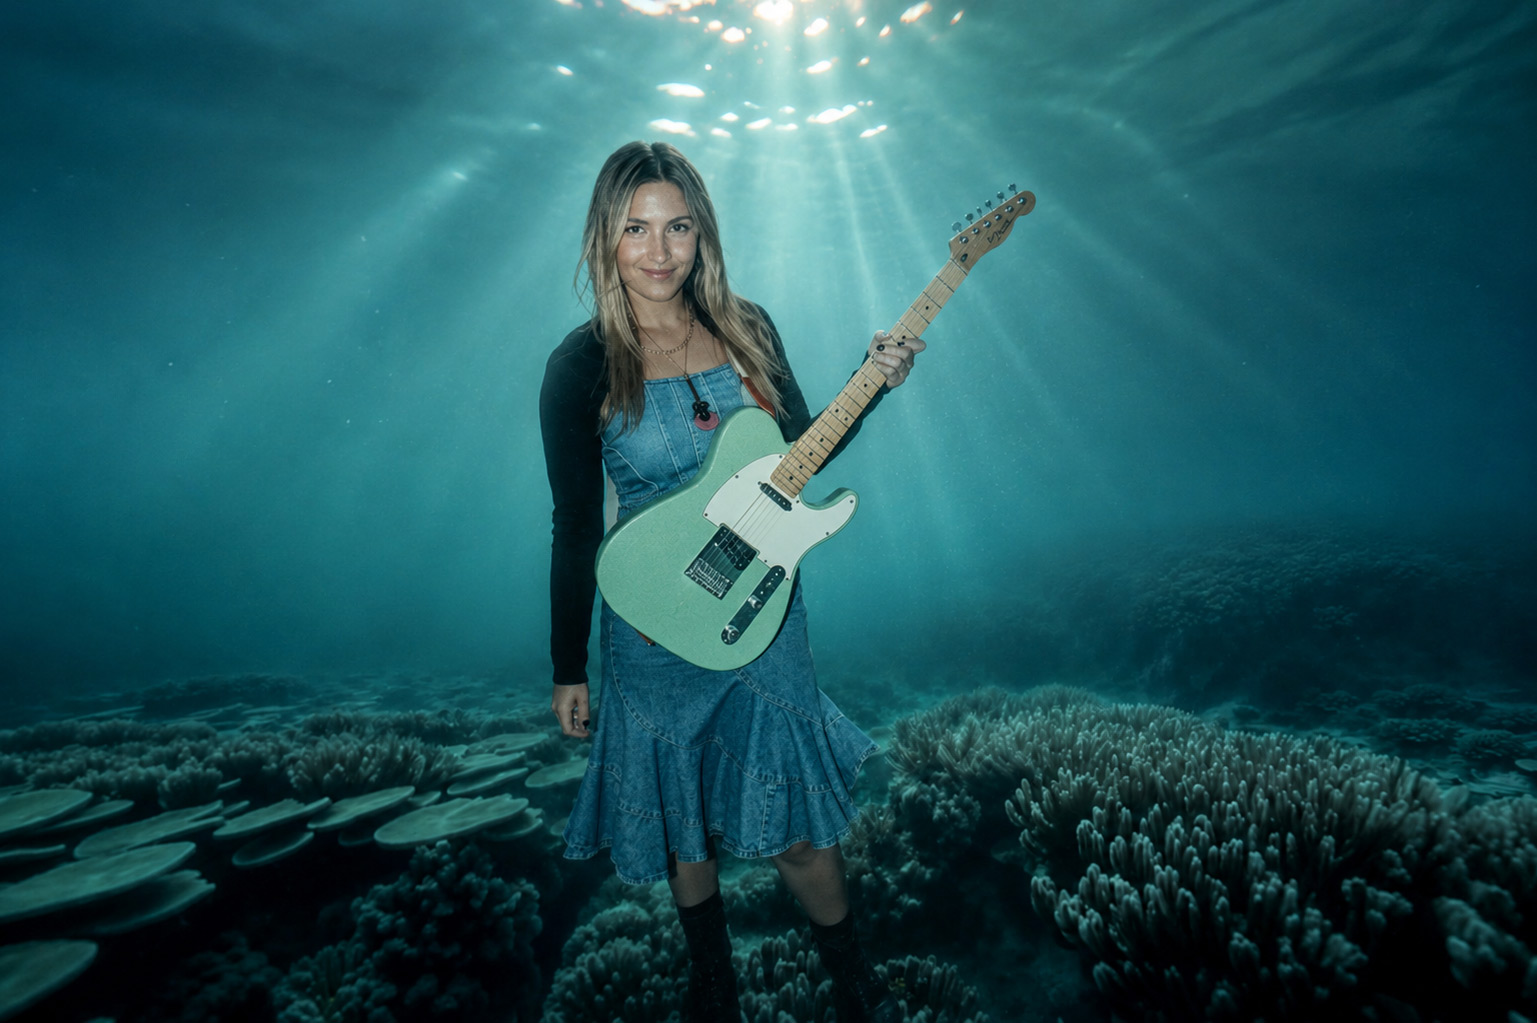
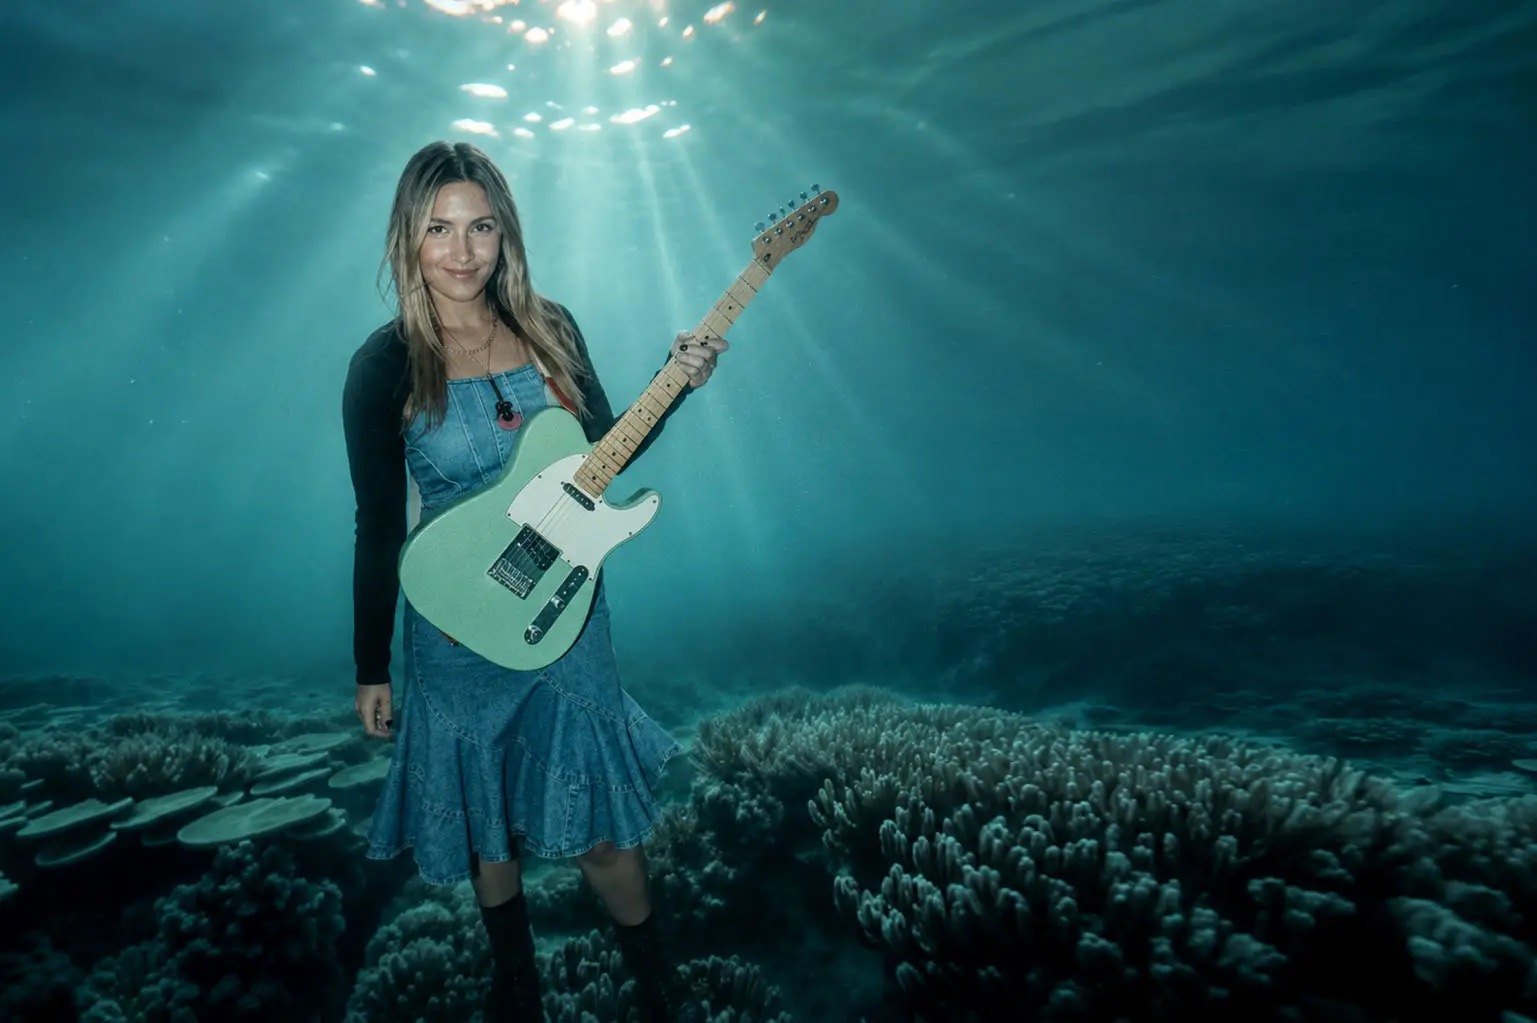
Homepage links, modal top spacing, reveals, music image
- PageLinks: exclude the home/Bio link from the homepage's own link list
  (Bio still appears in the main nav)
- Drake modal: more top padding so the close button clears the fixed nav
- Reveal: threshold 0 + no negative margin so above-the-fold text shows on
  landing without scrolling
- Restore the updated music background (recovered from the Next image cache;
  downscaled to 1537x1023 — see note)

diff --git a/src/components/PageLinks.tsx b/src/components/PageLinks.tsx
@@ -7,9 +7,11 @@ import { NAV_ITEMS } from "@/lib/site";
  * and slides its label on hover.
  */
 export default function PageLinks() {
+  // Exclude the home/Bio link — this list lives on the homepage itself.
+  const items = NAV_ITEMS.filter((item) => item.href !== "/");
   return (
     <nav aria-label="Explore" className="divide-y divide-white/10 border-y border-white/10">
-      {NAV_ITEMS.map((item, i) => (
+      {items.map((item, i) => (
         <Reveal key={item.href} delay={i * 80}>
           <Link
             href={item.href}

diff --git a/src/components/Reveal.tsx b/src/components/Reveal.tsx
@@ -39,7 +39,9 @@ export default function Reveal({
           }
         }
       },
-      { threshold: 0.15, rootMargin: "0px 0px -10% 0px" },
+      // threshold 0 + no negative margin: anything touching the viewport (incl.
+      // content only peeking above the fold on landing) reveals immediately.
+      { threshold: 0, rootMargin: "0px" },
     );
 
     observer.observe(node);

diff --git a/src/components/DrakeBell.tsx b/src/components/DrakeBell.tsx
@@ -61,7 +61,7 @@ function DrakeBellModal({ onClose }: { onClose: () => void }) {
       role="dialog"
       aria-modal="true"
       aria-label="Drake Bell × Kara Silvestri"
-      className="fixed inset-0 z-[100] flex items-start justify-center overflow-y-auto bg-black/80 p-4 backdrop-blur-md sm:p-8 animate-[fadeIn_.3s_ease]"
+      className="fixed inset-0 z-[100] flex items-start justify-center overflow-y-auto bg-black/80 px-4 pb-6 pt-24 backdrop-blur-md sm:px-8 sm:pb-10 sm:pt-28 animate-[fadeIn_.3s_ease]"
       onClick={onClose}
     >
       <div